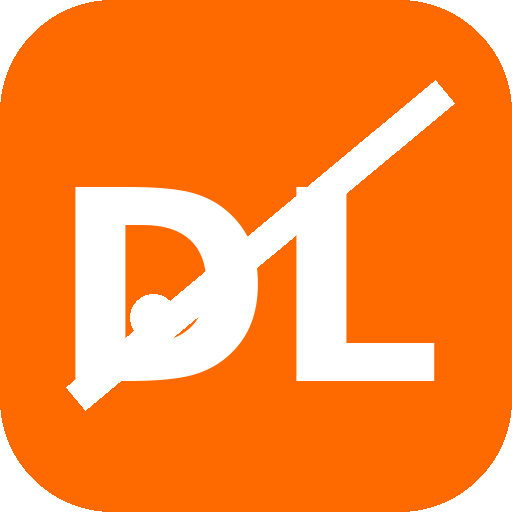
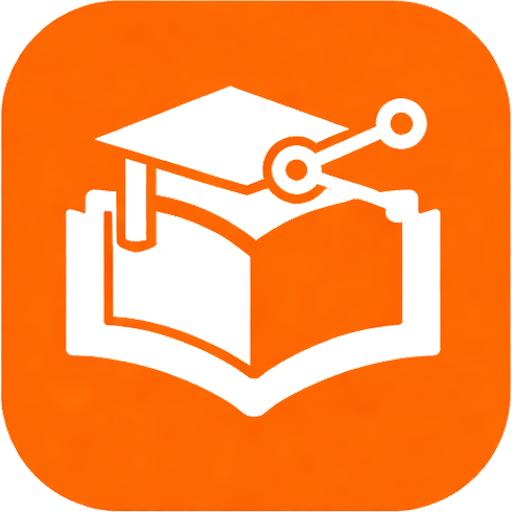
Hhe

diff --git a/frontend/src/styles.css b/frontend/src/styles.css
@@ -31,7 +31,9 @@ a{color:inherit; text-decoration:none}
   border-bottom:1px solid rgba(229,231,235,.6);
 }
 .navInner{display:flex; align-items:center; justify-content:space-between; gap:16px; padding:14px 20px}
-.brand{display:flex; align-items:center; gap:12px; font-weight:800; letter-spacing:.2px}
+.brand{display:flex; align-items:center; gap:12px; font-weight:800; letter-spacing:.2px; min-width:0}
+.brandLogo{display:block; width:clamp(154px, 19vw, 220px); height:auto; filter: drop-shadow(0 10px 24px rgba(255,106,0,.16));}
+.brandMeta{display:flex; flex-direction:column; gap:2px}
 .badge{
   width:36px; height:36px; border-radius:14px;
   display:grid; place-items:center;
@@ -40,6 +42,12 @@ a{color:inherit; text-decoration:none}
   box-shadow: 0 10px 25px rgba(255,106,0,.28);
 }
 .navLinks{display:flex; gap:10px; align-items:center; flex-wrap:wrap}
+@media (max-width: 920px){
+  .brandMeta{display:none}
+}
+@media (max-width: 560px){
+  .brandLogo{width:146px}
+}
 
 .btn{
   display:inline-flex; align-items:center; justify-content:center;

diff --git a/frontend/src/pages/Home.jsx b/frontend/src/pages/Home.jsx
@@ -164,7 +164,7 @@ export default function Home() {
     <div className="grid" style={{ gap: 16 }}>
       <div className="hero">
         <div className="heroInner">
-          <div className="heroBadge">MVP v0 • без встроенных оплат</div>
+          <div className="heroBadge">DoskoLink • MVP v0 • без встроенных оплат</div>
           <div className="heroTitle">Найдите репетитора и проведите урок прямо на платформе</div>
           <div className="heroSub">
             Маркетплейс репетиторов → бронирование слота → комната урока (видео/чат/доска) → отзыв и рейтинг.

diff --git a/frontend/src/App.jsx b/frontend/src/App.jsx
@@ -22,11 +22,10 @@ function NavBar() {
   return (
     <div className="nav">
       <div className="navInner">
-        <Link to="/" className="brand">
-          <div className="badge">DL</div>
-          <div>
-            <div>ДоскоЛинк</div>
-            <div className="small">MVP без оплат</div>
+        <Link to="/" className="brand" aria-label="DoskoLink — главная">
+          <img className="brandLogo" src="/doskolink-logo.png" alt="DoskoLink" />
+          <div className="brandMeta">
+            <div className="small">Платформа для репетиторов</div>
           </div>
         </Link>
 

diff --git a/frontend/index.html b/frontend/index.html
@@ -10,7 +10,7 @@
     <link rel="icon" type="image/png" sizes="16x16" href="/favicon-16x16.png" />
     <link rel="apple-touch-icon" sizes="180x180" href="/apple-touch-icon.png" />
     <link rel="manifest" href="/site.webmanifest" />
-    <title>DL MVP</title>
+    <title>DoskoLink</title>
   </head>
   <body>
     <div id="root"></div>
